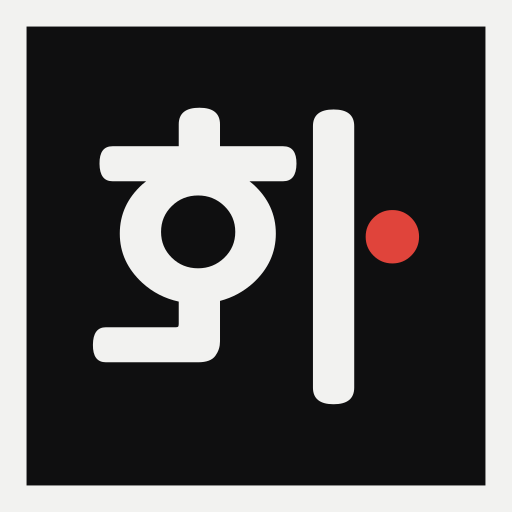
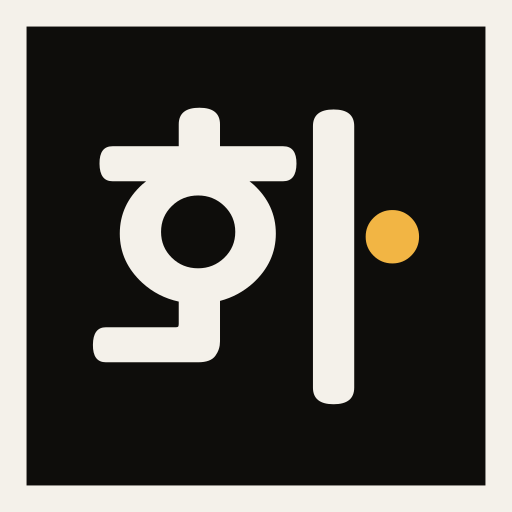
feat(brand): 로고 점·글씨를 노랑 톤으로, 파비콘·메일 로고 다시 굽기
Claude-Session: https://claude.ai/code/session_01WQMn45SrHRnET9Hiw7SPM9

Changed region(s): [[0.6875, 0.4062, 0.8438, 0.5312]]

diff --git a/lib/brandMailAssets.ts b/lib/brandMailAssets.ts
@@ -3,9 +3,9 @@
 // 메일 앱은 SVG와 data: 이미지를 막으므로 CID 첨부로 넣는다(lib/emailIcons.ts와 같은 방식).
 
 const ASSETS_B64 = {
[6 lines of base64/hex data omitted]
 } as const;
 
 export type BrandMailAsset = keyof typeof ASSETS_B64;

diff --git a/scripts/brand/build_logo.py b/scripts/brand/build_logo.py
@@ -22,9 +22,10 @@ from fontTools.pens.transformPen import TransformPen
 from fontTools.ttLib import TTFont
 
 TEXT = "영화대교"
-INK_DARK = "#F2F2F0"  # 어두운 바탕용 글씨
+INK_DARK = "#F4F1EA"  # 어두운 바탕용 글씨
 INK_LIGHT = "#111111"  # 밝은 바탕용 글씨
-RED = "#E0443B"
+DOT_DARK = "#F2B544"  # 어두운 바탕용 '화' 점(노랑)
+DOT_LIGHT = "#B07A12"  # 밝은 바탕용 '화' 점. 흰 바탕에서 노랑이 묻혀서 진한 호박색
 HWA, HWA_DOT = 1, 3  # "화" 글리프와 그 안의 ㅏ 점 컨투어 번호
 
 HERE = os.path.dirname(os.path.abspath(__file__))
@@ -91,14 +92,14 @@ def load_glyphs(path: str) -> list:
     return glyphs
 
 
-def place(g: dict, idx: int, x: float, y: float, k: float, ink: str, red: str) -> str:
+def place(g: dict, idx: int, x: float, y: float, k: float, ink: str, dot: str) -> str:
     """글리프 외곽 상자의 왼쪽 위를 (x, y)에 두고 배율 k로 그린다."""
     x0, _, _, y1 = g["bb"]
     tr = f'translate({num(x - x0 * k)} {num(y + y1 * k)}) scale({k:.5f})'
     if idx == HWA:
         body = " ".join(d for j, d in enumerate(g["ds"]) if j != HWA_DOT)
         return (f'<path transform="{tr}" fill="{ink}" d="{body}"/>'
-                f'<path transform="{tr}" fill="{red}" d="{g["ds"][HWA_DOT]}"/>')
+                f'<path transform="{tr}" fill="{dot}" d="{g["ds"][HWA_DOT]}"/>')
     return f'<path transform="{tr}" fill="{ink}" d="{" ".join(g["ds"])}"/>'
 
 
@@ -107,25 +108,25 @@ def wrap(body: str, x: float, y: float, w: float, h: float) -> str:
             f'width="{num(w)}" height="{num(h)}"><title>영화대교</title>{body}</svg>\n')
 
 
-def square(glyphs: list, ink: str, red: str) -> str:
+def square(glyphs: list, ink: str, dot: str) -> str:
     cell, gap = 100.0, 10.0
     k = min(min(cell / (g["bb"][2] - g["bb"][0]), cell / (g["bb"][3] - g["bb"][1])) for g in glyphs)
     parts = []
     for i, g in enumerate(glyphs):
         gw, gh = (g["bb"][2] - g["bb"][0]) * k, (g["bb"][3] - g["bb"][1]) * k
-        parts.append(place(g, i, (i % 2) * (cell + gap) + (cell - gw) / 2, (i // 2) * (cell + gap) + (cell - gh) / 2, k, ink, red))
+        parts.append(place(g, i, (i % 2) * (cell + gap) + (cell - gw) / 2, (i // 2) * (cell + gap) + (cell - gh) / 2, k, ink, dot))
     size = 2 * cell + gap
     frame = f'<rect x="-26" y="-26" width="{num(size + 52)}" height="{num(size + 52)}" fill="none" stroke="{ink}" stroke-width="2.4"/>'
     return wrap(frame + "".join(parts), -27.2, -27.2, size + 54.4, size + 54.4)
 
 
-def horizontal(glyphs: list, ink: str, red: str) -> str:
+def horizontal(glyphs: list, ink: str, dot: str) -> str:
     h = 100.0
     k = h / max(g["bb"][3] - g["bb"][1] for g in glyphs)
     x, parts = 0.0, []
     for i, g in enumerate(glyphs):
         gh = (g["bb"][3] - g["bb"][1]) * k
-        parts.append(place(g, i, x, (h - gh) / 2, k, ink, red))
+        parts.append(place(g, i, x, (h - gh) / 2, k, ink, dot))
         x += (g["bb"][2] - g["bb"][0]) * k + h * 0.10
     w = x - h * 0.10
     lines = (f'<rect x="0" y="-24.4" width="{num(w)}" height="2.4" fill="{ink}"/>'
@@ -133,29 +134,29 @@ def horizontal(glyphs: list, ink: str, red: str) -> str:
     return wrap(lines + "".join(parts), 0, -24.4, w, h + 48.8)
 
 
-def single(glyphs: list, idx: int, ink: str, red: str, stroke: float = 7.0, scale: float = 0.86) -> str:
+def single(glyphs: list, idx: int, ink: str, dot: str, stroke: float = 7.0, scale: float = 0.86) -> str:
     """작은 크기용 후보: 한 글자 + 테두리. stroke를 키우면 16·32px에서도 테두리가 남는다."""
     g, cell = glyphs[idx], 100.0
     k = min(cell / (g["bb"][2] - g["bb"][0]), cell / (g["bb"][3] - g["bb"][1])) * scale
     gw, gh = (g["bb"][2] - g["bb"][0]) * k, (g["bb"][3] - g["bb"][1]) * k
     m = 14 + stroke / 2
     frame = f'<rect x="{num(-14)}" y="{num(-14)}" width="{num(cell + 28)}" height="{num(cell + 28)}" fill="none" stroke="{ink}" stroke-width="{num(stroke)}"/>'
-    return wrap(frame + place(g, idx, (cell - gw) / 2, (cell - gh) / 2, k, ink, red), -m, -m, cell + 2 * m, cell + 2 * m)
+    return wrap(frame + place(g, idx, (cell - gw) / 2, (cell - gh) / 2, k, ink, dot), -m, -m, cell + 2 * m, cell + 2 * m)
 
 
 def build(out_dir: str = OUT_DIR) -> list:
     glyphs = load_glyphs(ensure_font())
     files = {
-        "logo-square-dark.svg": square(glyphs, INK_DARK, RED),
-        "logo-square-light.svg": square(glyphs, INK_LIGHT, RED),
-        "logo-horizontal-dark.svg": horizontal(glyphs, INK_DARK, RED),
-        "logo-horizontal-light.svg": horizontal(glyphs, INK_LIGHT, RED),
-        # 흑백 감열 영수증용: 빨간 점도 검정
+        "logo-square-dark.svg": square(glyphs, INK_DARK, DOT_DARK),
+        "logo-square-light.svg": square(glyphs, INK_LIGHT, DOT_LIGHT),
+        "logo-horizontal-dark.svg": horizontal(glyphs, INK_DARK, DOT_DARK),
+        "logo-horizontal-light.svg": horizontal(glyphs, INK_LIGHT, DOT_LIGHT),
+        # 흑백 감열 영수증용: 점도 검정
         "logo-horizontal-mono.svg": horizontal(glyphs, INK_LIGHT, INK_LIGHT),
-        "icon-hwa-dark.svg": single(glyphs, HWA, INK_DARK, RED),
-        "icon-yeong-dark.svg": single(glyphs, 0, INK_DARK, RED),
-        "icon-hwa-dark-small.svg": single(glyphs, HWA, INK_DARK, RED, stroke=12, scale=0.80),
-        "icon-yeong-dark-small.svg": single(glyphs, 0, INK_DARK, RED, stroke=12, scale=0.80),
+        "icon-hwa-dark.svg": single(glyphs, HWA, INK_DARK, DOT_DARK),
+        "icon-yeong-dark.svg": single(glyphs, 0, INK_DARK, DOT_DARK),
+        "icon-hwa-dark-small.svg": single(glyphs, HWA, INK_DARK, DOT_DARK, stroke=12, scale=0.80),
+        "icon-yeong-dark-small.svg": single(glyphs, 0, INK_DARK, DOT_DARK, stroke=12, scale=0.80),
     }
     os.makedirs(out_dir, exist_ok=True)
     paths = []

diff --git a/scripts/brand/test_build_logo.py b/scripts/brand/test_build_logo.py
@@ -8,7 +8,10 @@ from unittest import mock
 sys.path.insert(0, os.path.dirname(__file__))
 import build_logo  # noqa: E402
 
-RED = build_logo.RED
+DOT_DARK = "#F2B544"   # 어두운 바탕용 '화' 점(노랑)
+DOT_LIGHT = "#B07A12"  # 밝은 바탕용 '화' 점(진한 호박색)
+INK_DARK = "#F4F1EA"   # 어두운 바탕용 글씨
+OLD_COLORS = ("#E0443B", "#F2F2F0")  # 빨강 시절 점·글씨
 
 
 def text_nodes(svg: str) -> str:
@@ -31,11 +34,34 @@ class BuildLogoTest(unittest.TestCase):
             "icon-hwa-dark-small.svg", "icon-yeong-dark-small.svg",
         ]))
 
-    def test_red_appears_once_where_hwa_exists(self):
+    def svg(self, name: str) -> str:
+        return open(os.path.join(self.out, name), encoding="utf-8").read()
+
+    def test_dot_appears_once_where_hwa_exists(self):
         for p in self.files:
             svg = open(p, encoding="utf-8").read()
+            dot = DOT_LIGHT if "light" in p else DOT_DARK
             expected = 0 if ("yeong" in p or "mono" in p) else 1
-            self.assertEqual(svg.count(RED), expected, p)
+            self.assertEqual(svg.count(dot), expected, p)
+
+    def test_dot_colors(self):
+        for name in ("logo-horizontal-dark.svg", "logo-square-dark.svg", "icon-hwa-dark.svg"):
+            svg = self.svg(name)
+            self.assertIn(DOT_DARK, svg, name)
+            self.assertIn(INK_DARK, svg, name)
+            for old in OLD_COLORS:
+                self.assertNotIn(old, svg, name)
+        for name in ("logo-horizontal-light.svg", "logo-square-light.svg"):
+            self.assertIn(DOT_LIGHT, self.svg(name), name)
+        # 흑백 영수증용은 점도 검정: 빨강·노랑 둘 다 없어야 한다
+        mono = self.svg("logo-horizontal-mono.svg")
+        for c in ("#E0443B", DOT_DARK, DOT_LIGHT):
+            self.assertNotIn(c, mono)
+        # 어떤 파일에도 옛 색이 남지 않는다
+        for p in self.files:
+            svg = open(p, encoding="utf-8").read()
+            for old in OLD_COLORS:
+                self.assertNotIn(old, svg, p)
 
     def test_no_english_text(self):
         for p in self.files:

diff --git a/scripts/brand/README.md b/scripts/brand/README.md
@@ -5,9 +5,10 @@
 ## 다시 만들기
 
 ```bash
-python3 -m venv .venv-brand && .venv-brand/bin/pip install fonttools
+python3 -m venv .venv-brand && .venv-brand/bin/pip install fonttools pytest
 .venv-brand/bin/python scripts/brand/build_logo.py     # public/brand/*.svg
 node scripts/brand/rasterize.mjs                       # public/brand/png/*.png
+node scripts/brand/gen-mail-assets.mjs                 # lib/brandMailAssets.ts (메일 로고·절취선 홈)
 ```
 
 - 폰트는 커밋하지 않는다. 처음 실행할 때 Google Fonts에서 "영화대교" 네 글자 서브셋만 받아 `scripts/brand/.cache/`에 둔다.
@@ -24,7 +25,7 @@ node scripts/brand/rasterize.mjs                       # public/brand/png/*.png
 | `png/*@2x.png`, `png/*@3x.png` | 메일처럼 SVG를 못 쓰는 곳 |
 | `png/icon-*-{16,32,48,180,512}.png` | 파비콘·앱 아이콘 후보 |
 
-`dark`는 어두운 바탕에 올리는 버전(글씨 #F2F2F0), `light`는 밝은 바탕용(글씨 #111111)이다. 빨강(#E0443B)은 "화"의 점 하나뿐이다.
+`dark`는 어두운 바탕에 올리는 버전(글씨 #F4F1EA, 점 노랑 #F2B544), `light`는 밝은 바탕용(글씨 #111111, 점 진한 호박색 #B07A12)이다. 색은 "화"의 점 하나뿐이고, `mono`(감열 영수증)는 점도 검정이다. 아이콘 PNG와 메일 자산의 바탕은 #0E0D0B, 티켓 카드는 #1A1916이다. 색 규칙은 `docs/superpowers/specs/2026-11-09-warm-tone-design.md`를 따른다.
 
 ## 테스트
 
